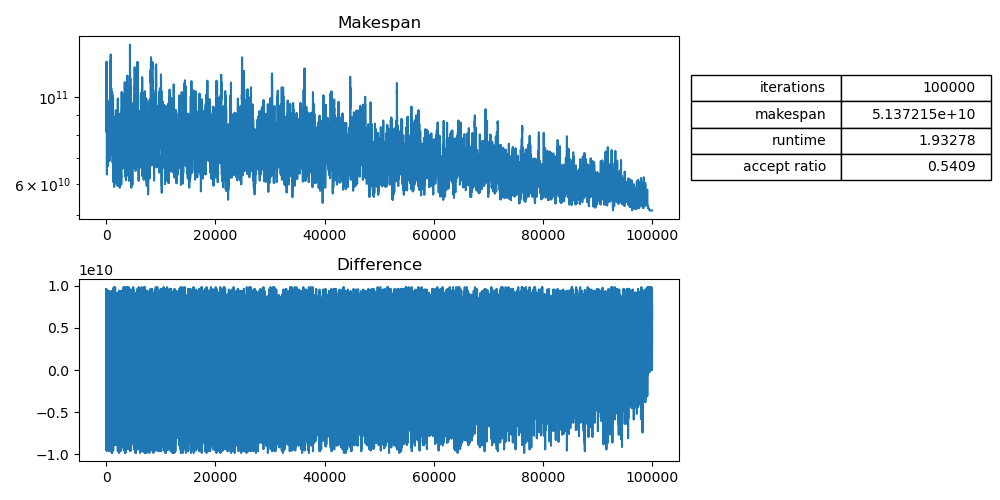
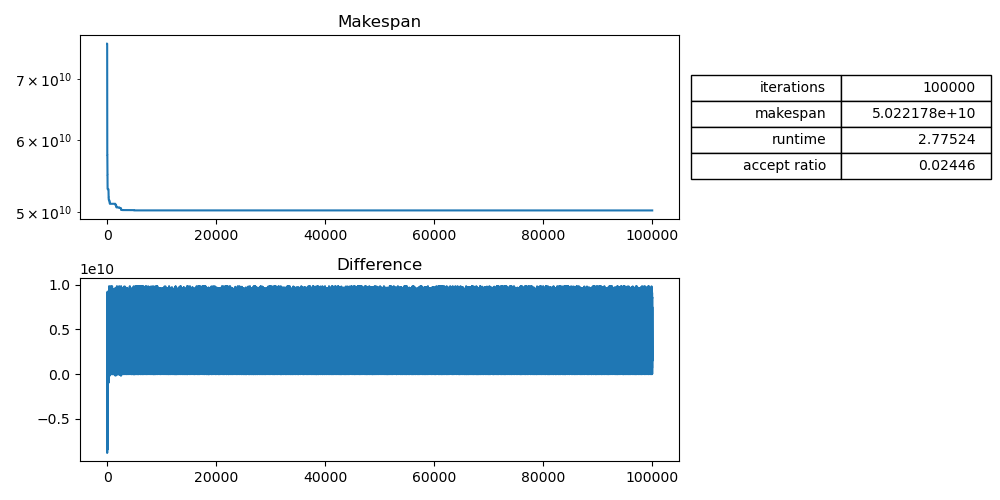
working hybrid function

diff --git a/simann/simann.py b/simann/simann.py
@@ -1,6 +1,6 @@
 import random
 from timeit import default_timer as timer # see https://stackoverflow.com/questions/7370801/how-to-measure-elapsed-time-in-python
-
+from copy import deepcopy
 from experiment import Experiment
 
 
@@ -37,6 +37,52 @@ class SimulatedAnnealing:
         for j in range(self.n):
             # assign job j randomly to one of the machines
             s[j] = random.randrange(self.m)
+
+        return s
+
+
+    def getInitialState(self):
+        """Returns the state after assigning each job by the LPT rule"""
+
+        copyptimes = deepcopy(self.ptimes)
+
+        s = [[] for x in range(self.n)]
+
+        min_ci = 0
+        min_i = 0
+
+        # assign a machine to each job
+        for j in range(self.n):
+
+            # reset the variables for each iteration
+            max_t = 0
+            max_it = 0
+
+            # check which position has biggest makespan
+            for i in range(self.n):
+                if max_t < copyptimes[i]:
+                    max_t = copyptimes[i]
+                    max_it = i
+
+            # assign the job with biggest makespan to machine with smallest makespan
+            s[max_it] = min_i
+            # set the jobs makespan to -1
+            copyptimes[max_it] = -1
+
+            # check which machine has smallest makespan
+            for i in range(self.m):
+                
+                c_i = 0
+                
+                # iterate over jobs and add to makespan if assigned to this machine
+                for k in range(self.n):
+                    if s[k] == i:
+                        c_i += self.ptimes[s[k]]
+
+                # if makespan of this machine is smaller then replace it
+                if c_i < min_ci:
+                    min_ci = c_i
+                    min_i = i
 
         return s
 
@@ -102,7 +148,7 @@ class SimulatedAnnealing:
         return 1 - ratio
 
 
-    def start(self, n_iterations, p_function, good_accept, bad_accept, state_callback=None):
+    def start(self, n_iterations, p_function, initial_state, good_accept, bad_accept, state_callback=None):
         '''
         n_iterations: the total number of iterations that are used
         p_function: acceptance probability function which determines wheter to accept a move based on
@@ -121,7 +167,10 @@ class SimulatedAnnealing:
         t0 = timer()
 
         # pick an initial state
-        state = self.getRandomState()
+        if initial_state == 0:
+            state = self.getRandomState()
+        else:
+            state = self.getInitialState()
         current_makespan = self.makespan(state)
 
         # keep track of the current best state and makespan

diff --git a/simann/first_comparison.py b/simann/first_comparison.py
@@ -12,23 +12,23 @@ output_prefix = "./experiments/exp"
 
 # run experiments and save their result plots to file
 
-exp1 = instance.start(1000, localSearch, 8e10, 4e12)
+exp1 = instance.start(1000, localSearch, 0, 8e10, 4e12)
 exp1.plotResults("{}1.png".format(output_prefix))
 exp1.plotSchedule(instance, file_name="./experiments/exp1_schedule.png")
 
-exp2 = instance.start(1000, linearBadmoveAccept, 8e10, 4e12)
+exp2 = instance.start(1000, linearBadmoveAccept, 0, 8e10, 4e12)
 exp2.plotResults("{}2.png".format(output_prefix))
 
 
-exp3 = instance.start(10000, localSearch, 8e10, 4e12)
+exp3 = instance.start(10000, localSearch, 0, 8e10, 4e12)
 exp3.plotResults("{}3.png".format(output_prefix))
 
-exp4 = instance.start(10000, linearBadmoveAccept, 8e10, 4e12)
+exp4 = instance.start(10000, linearBadmoveAccept, 0, 8e10, 4e12)
 exp4.plotResults("{}4.png".format(output_prefix))
 
 
-exp5 = instance.start(100000, exponentialDecay, 8e10, 4e12)
+exp5 = instance.start(100000, exponentialDecay, 0, 8e10, 4e12)
 exp5.plotResults("{}5.png".format(output_prefix))
 
-exp6 = instance.start(100000, exponentialDecayNonInc, 8e10, 4e12)
+exp6 = instance.start(100000, exponentialDecayNonInc, 0, 8e10, 4e12)
 exp6.plotResults("{}6.png".format(output_prefix))

diff --git a/simann/initial_state_comparison.py b/simann/initial_state_comparison.py
@@ -1,0 +1,27 @@
+from simann import SimulatedAnnealing
+from experiment import Experiment
+from p_functions import *
+
+# problem defenition
+m = 10 # number of machines
+jobs_file = "../ptimes.txt" # file that contains the jobs
+instance = SimulatedAnnealing.fromFile(jobs_file, m)
+
+# output filename
+output_prefix = "./experiments/state_exp"
+
+# run experiments and save their result plots to file
+
+exp1 = instance.start(100, localSearch, 0, 8e10, 4e12)
+exp1.plotResults("{}1.png".format(output_prefix))
+exp1.plotSchedule(instance, file_name="./experiments/state_exp1_schedule.png")
+
+exp2 = instance.start(100, localSearch, 1, 8e10, 4e12)
+exp2.plotResults("{}2.png".format(output_prefix))
+
+
+exp3 = instance.start(10000, localSearch, 0, 8e10, 4e12)
+exp3.plotResults("{}1.png".format(output_prefix))
+
+exp3 = instance.start(10000, localSearch, 1, 8e10, 4e12)
+exp3.plotResults("{}2.png".format(output_prefix))

diff --git a/simann/acceptance_comparison.py b/simann/acceptance_comparison.py
@@ -10,10 +10,10 @@ instance = SimulatedAnnealing.fromFile(jobs_file, m)
 # output filename
 output_prefix = "./experiments/accept_exp"
 
-accept_exp1 = instance.start(100000, exponentialDecay, 9.8e9, 4e10) #tried to use max(jobs_file) for the third entry to get the largest single processing time as good_accept, but that does not work. 
+accept_exp1 = instance.start(100000, exponentialDecay, 0, 9.8e9, 4e10) #tried to use max(jobs_file) for the third entry to get the largest single processing time as good_accept, but that does not work. 
 accept_exp1.plotResults("{}1.png".format(output_prefix))
 
-accept_exp2 = instance.start(100000, exponentialDecayNonInc, 8e10, 4e10)
+accept_exp2 = instance.start(100000, exponentialDecayNonInc, 0, 8e10, 4e10)
 accept_exp2.plotResults("{}2.png".format(output_prefix))
 
 
